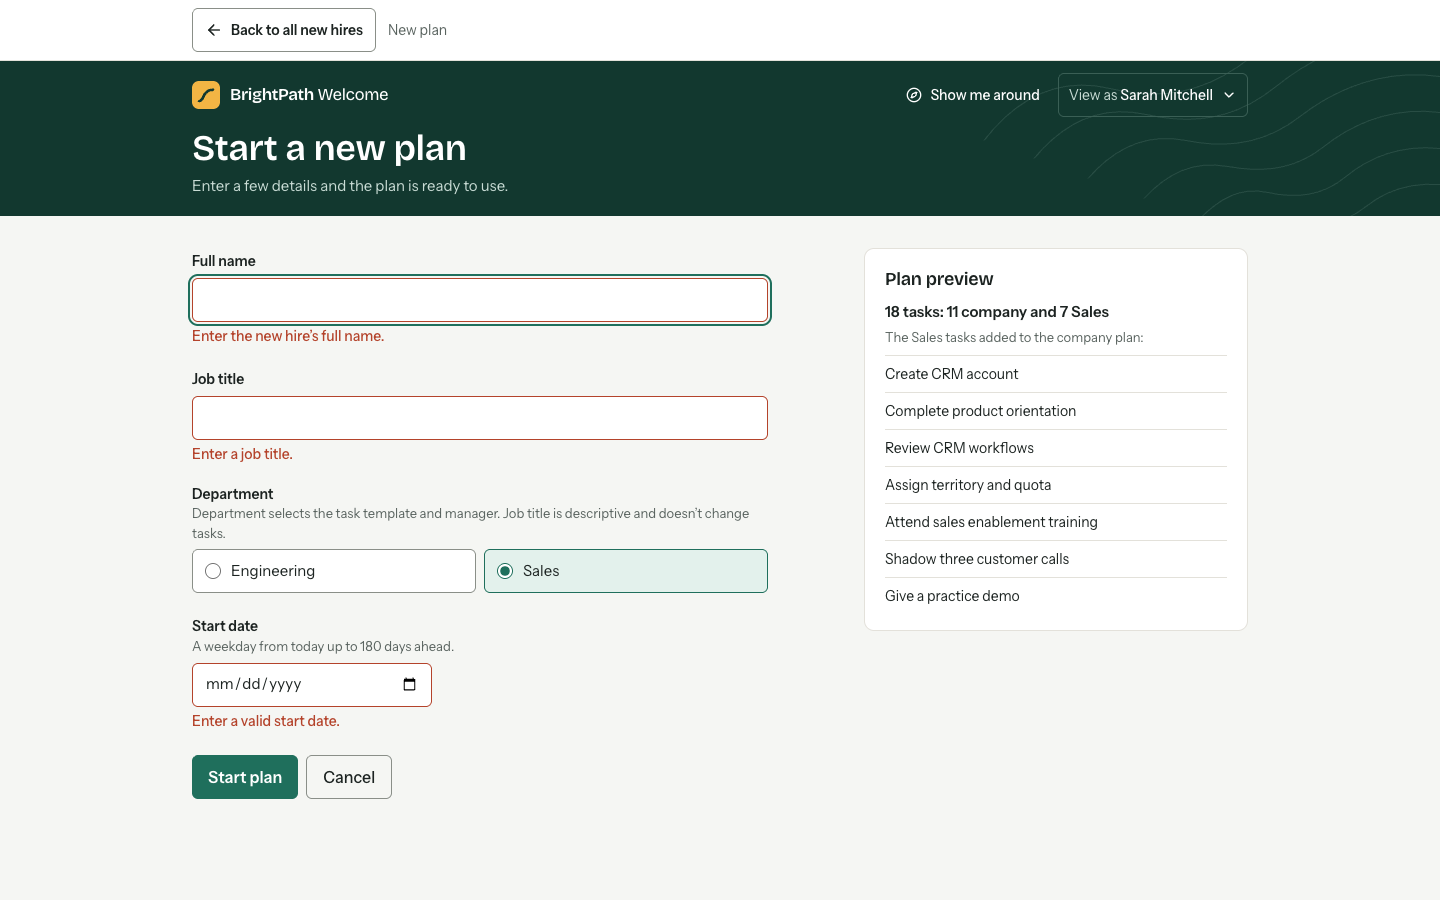
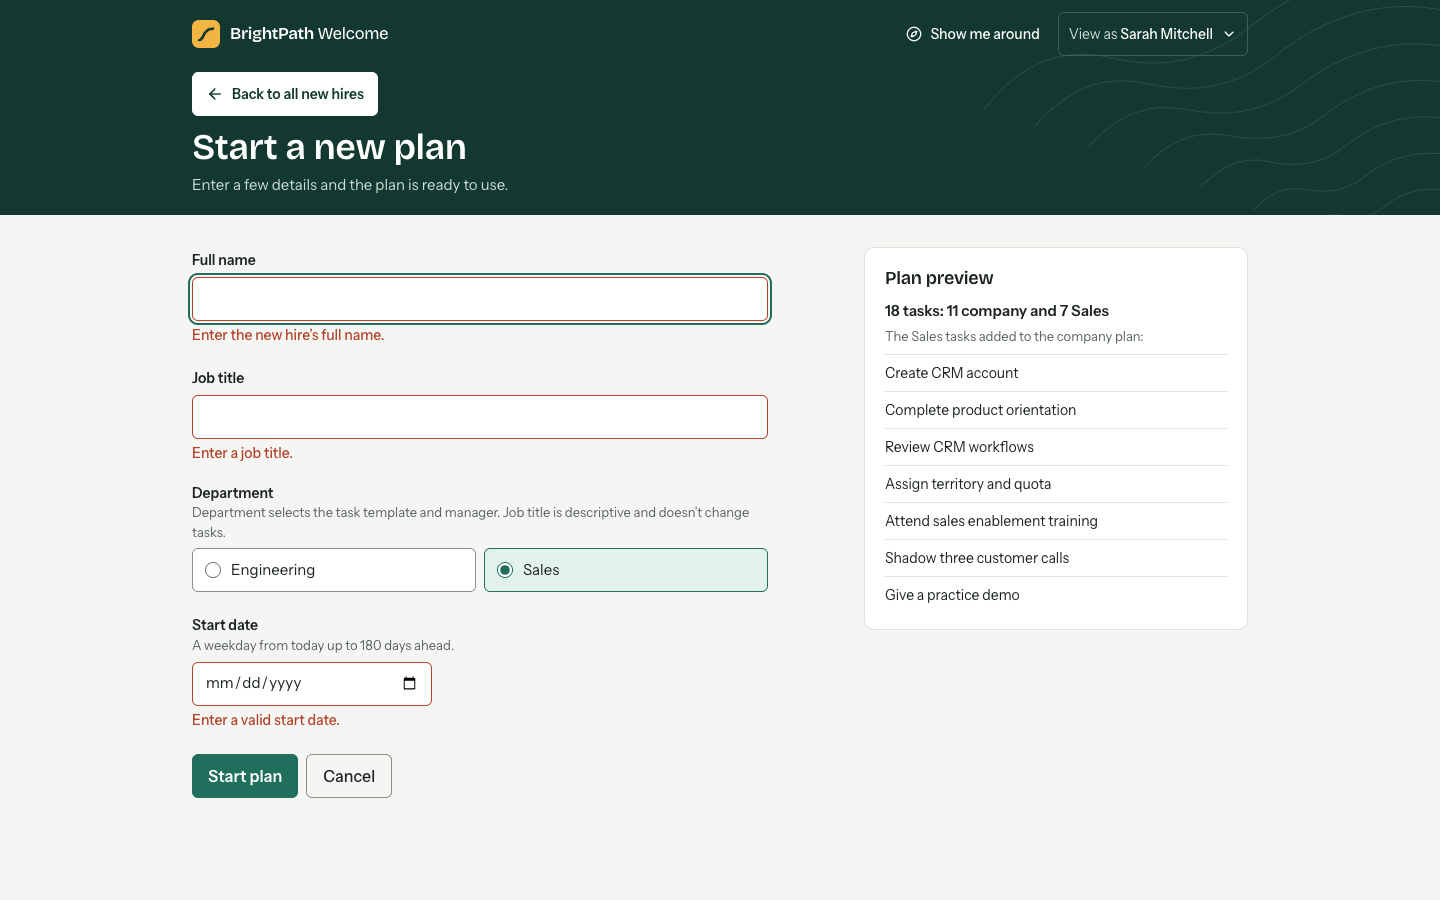
docs: update screenshots and record the back button decision

diff --git a/docs/ai-review-log.md b/docs/ai-review-log.md
@@ -26,5 +26,6 @@ The rubric asks whether the AI's work was checked, so this records real checks a
 | 20 | The help and question features | Independent Opus review, because Codex had reached its usage limit. It ran realistic questions against the code | Found what my tests missed: a status could name the wrong recipient, "when are my benefits due" returned a generic list, "work" matched "workflows", a finished hire could not see a request's status, and a check mark appeared on a past phase with open work | Fixed all of them and added tests |
 | 21 | The tour | Viewed screenshots after all 111 browser tests had passed | **The tests passed while the spotlight sat on empty space**, because the tour measured the old page during a route change. The card also covered its target on one step and was clipped on another | Fixed the timing and placement, and added tests that check the spotlight and card positions at every step |
 | 22 | Those stricter tests | Ran them against the fix | They caught a further bug: web fonts arriving late left the spotlight 23px off | The tour now re-measures whenever the layout changes |
-| 23 | The manager screens, after feedback that the way back was hard to see | Checked the code behind the complaint | Besides pale back links, pages kept their old scroll position, so the link could already be off screen, and the logo switched managers to Emily's view | Added a pinned back bar, scroll handling, and a logo that goes to your own home, all tested |
+| 23 | The manager screens, after feedback that the way back was hard to see | Checked the code behind the complaint | Besides pale back links, pages kept their old scroll position, so the link could already be off screen, and the logo switched managers to Emily's view | Added scroll handling, a logo that goes to your own home, and a clearer back button, all tested |
 | 24 | The final screenshots | Viewed them after all tests passed | A focus ring outlined the drawer content on open, and "Who can help with repository access?" led with a finished task | Focus now starts on the panel, and open tasks rank first |
+| 25 | The AI's pinned back bar | I tried it myself | All tests passed, but the bar at the very top of the screen did not feel intuitive | Moved it to a solid button at the left above the title, with a second at the end of long pages |

diff --git a/docs/decisions.md b/docs/decisions.md
@@ -49,7 +49,7 @@ See section 4 of [plan.md](plan.md).
 | D16 | Time estimates count unknown tasks instead of guessing, and round to 15 minutes | One confident total | Six tasks have no sensible estimate, and a falsely precise number would mislead |
 | D17 | A hand-built tour for each person, opening once on their first visit, with a button to replay it | A tour library, or one tour across all roles | No new dependency, and it cannot change data. A new hire should not be walked through HR's screen. It waits if someone arrives through a link to a task, and resetting demo data does not bring it back |
 | D18 | Anything that mentions a task links to it | Text only | People should not have to hunt for what a nudge or flag refers to |
-| D19 | A pinned white bar holds the way back on detail screens, and the logo goes to your own home | A back link inside the dark header | The link blended in and scrolled away. The logo used to jump to Emily, which switched who you were viewing as |
+| D19 | A solid white Back button at the left above the title, with a second at the end of long pages. The logo goes to your own home | A pale text link, or a bar pinned to the top of the screen | The pale link blended in. A pinned bar did not feel intuitive in user testing. The logo used to jump to Emily, which switched who you were viewing as |
 | D10 | Radix primitives styled directly | The full shadcn setup | shadcn wraps these same primitives, and we only need a drawer and a menu |
 
 ## Approved decisions

diff --git a/README.md b/README.md
@@ -64,7 +64,7 @@ David wants department-specific requirements. Emily does not want to see 40 task
 - Links to the task being discussed, from nudges, help requests, reasons for a flag, and blocked tasks.
 - Changes persist through a refresh and sync live between tabs.
 - Every screen has its own link, and bad links show a clear message.
-- Detail screens have a pinned Back button. New pages open at the top, and going back returns to your place in the list.
+- Detail screens have a clear Back button on the left above the title, and long pages have another at the end. New pages open at the top, and going back returns to your place in the list.
 - Sample dates are relative to the day the data was created, so the demo does not go stale.
 
 ## Screenshots
@@ -81,7 +81,7 @@ David wants department-specific requirements. Emily does not want to see 40 task
 
 ![HR team page](docs/screenshots/hr-team.png)
 
-**Detail screens have a pinned way back, and the reason for a flag links to the task.**
+**Detail screens have a clear way back on the left, and the reason for a flag links to the task.**
 
 ![Hire detail](docs/screenshots/hire-detail.png)
 
@@ -140,7 +140,7 @@ The full exclusions table is in [docs/plan.md](docs/plan.md).
 
 ```bash
 npm test             # 174 unit tests
-npm run test:e2e     # 137 browser tests, using your installed Chrome
+npm run test:e2e     # 138 browser tests, using your installed Chrome
 npm run build        # type-check and production build
 ```
 
